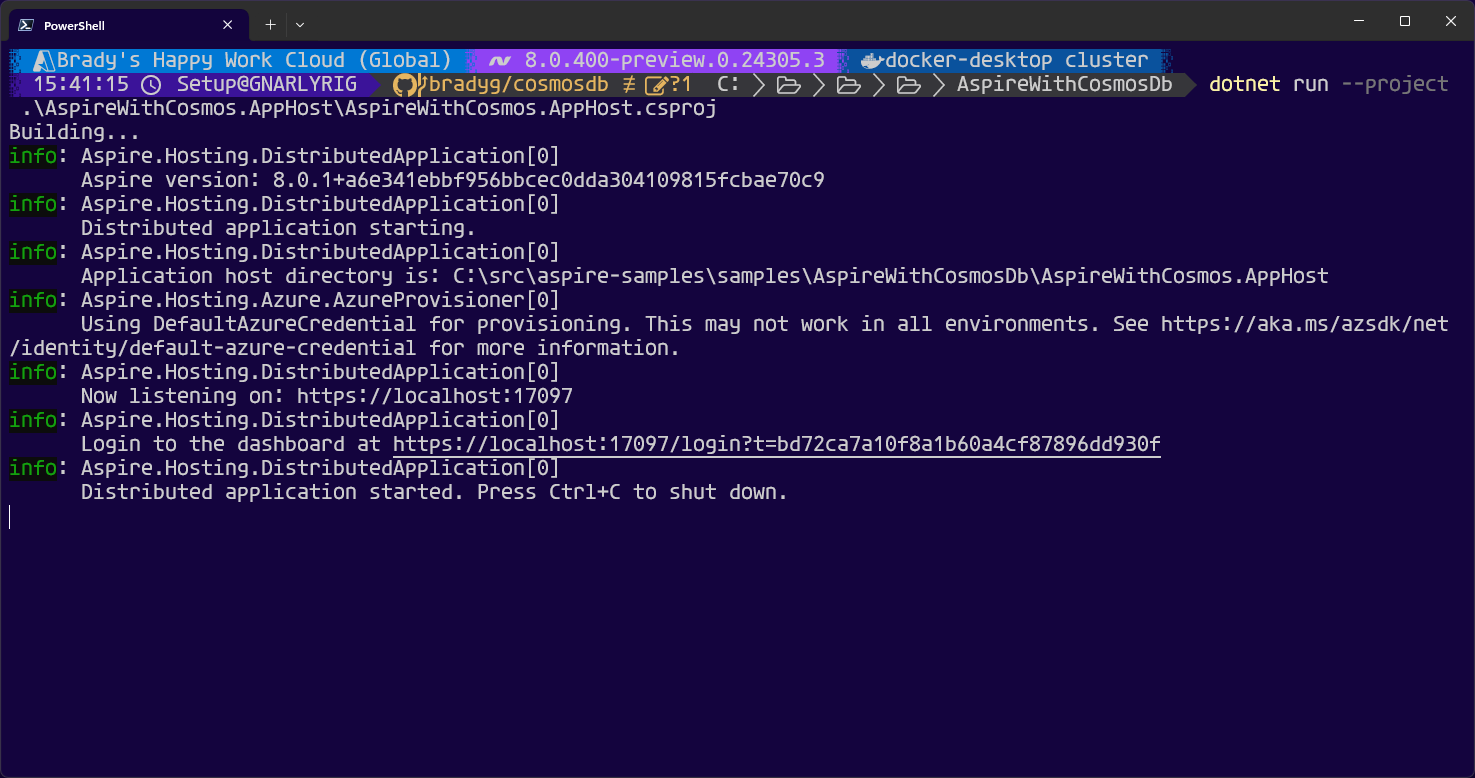
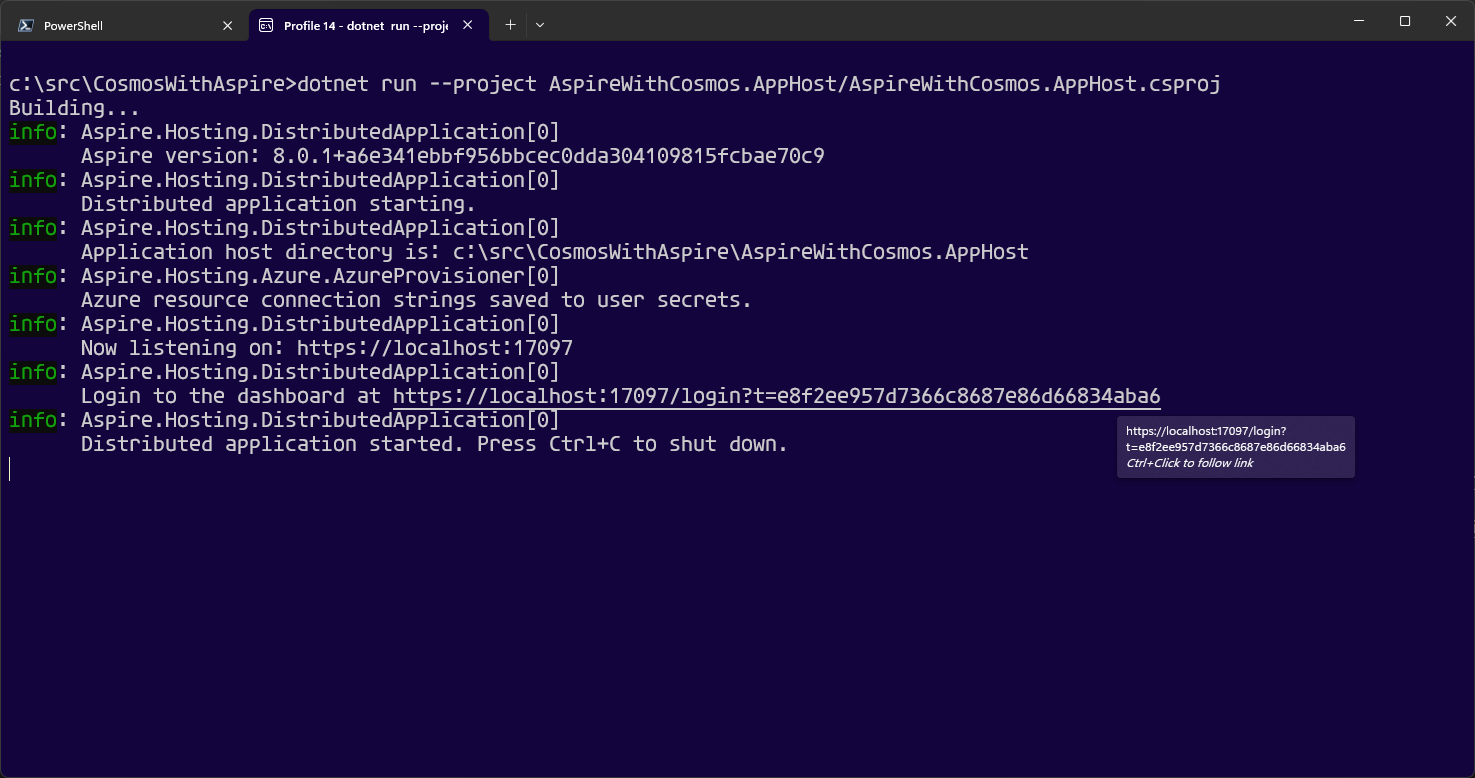
simplified terminal image

diff --git a/samples/AspireWithCosmosDb/AspireWithCosmos.AppHost/Program.cs b/samples/AspireWithCosmosDb/AspireWithCosmos.AppHost/Program.cs
@@ -1,11 +1,12 @@
-var builder = DistributedApplication.CreateBuilder(args);
+var builder = DistributedApplication.CreateBuilder(args);
 
 var cosmos = builder.AddAzureCosmosDB("cosmos");
 
-var apiService = builder.AddProject<Projects.AspireWithCosmos_ApiService>("apiservice").WithReference(cosmos);
+var apiService = builder.AddProject<Projects.AspireWithCosmos_ApiService>("apiservice")
+    .WithReference(cosmos);
 
 builder.AddProject<Projects.AspireWithCosmos_Web>("webfrontend")
-       .WithExternalHttpEndpoints()
-       .WithReference(apiService);
+    .WithExternalHttpEndpoints()
+    .WithReference(apiService);
 
 builder.Build().Run();
